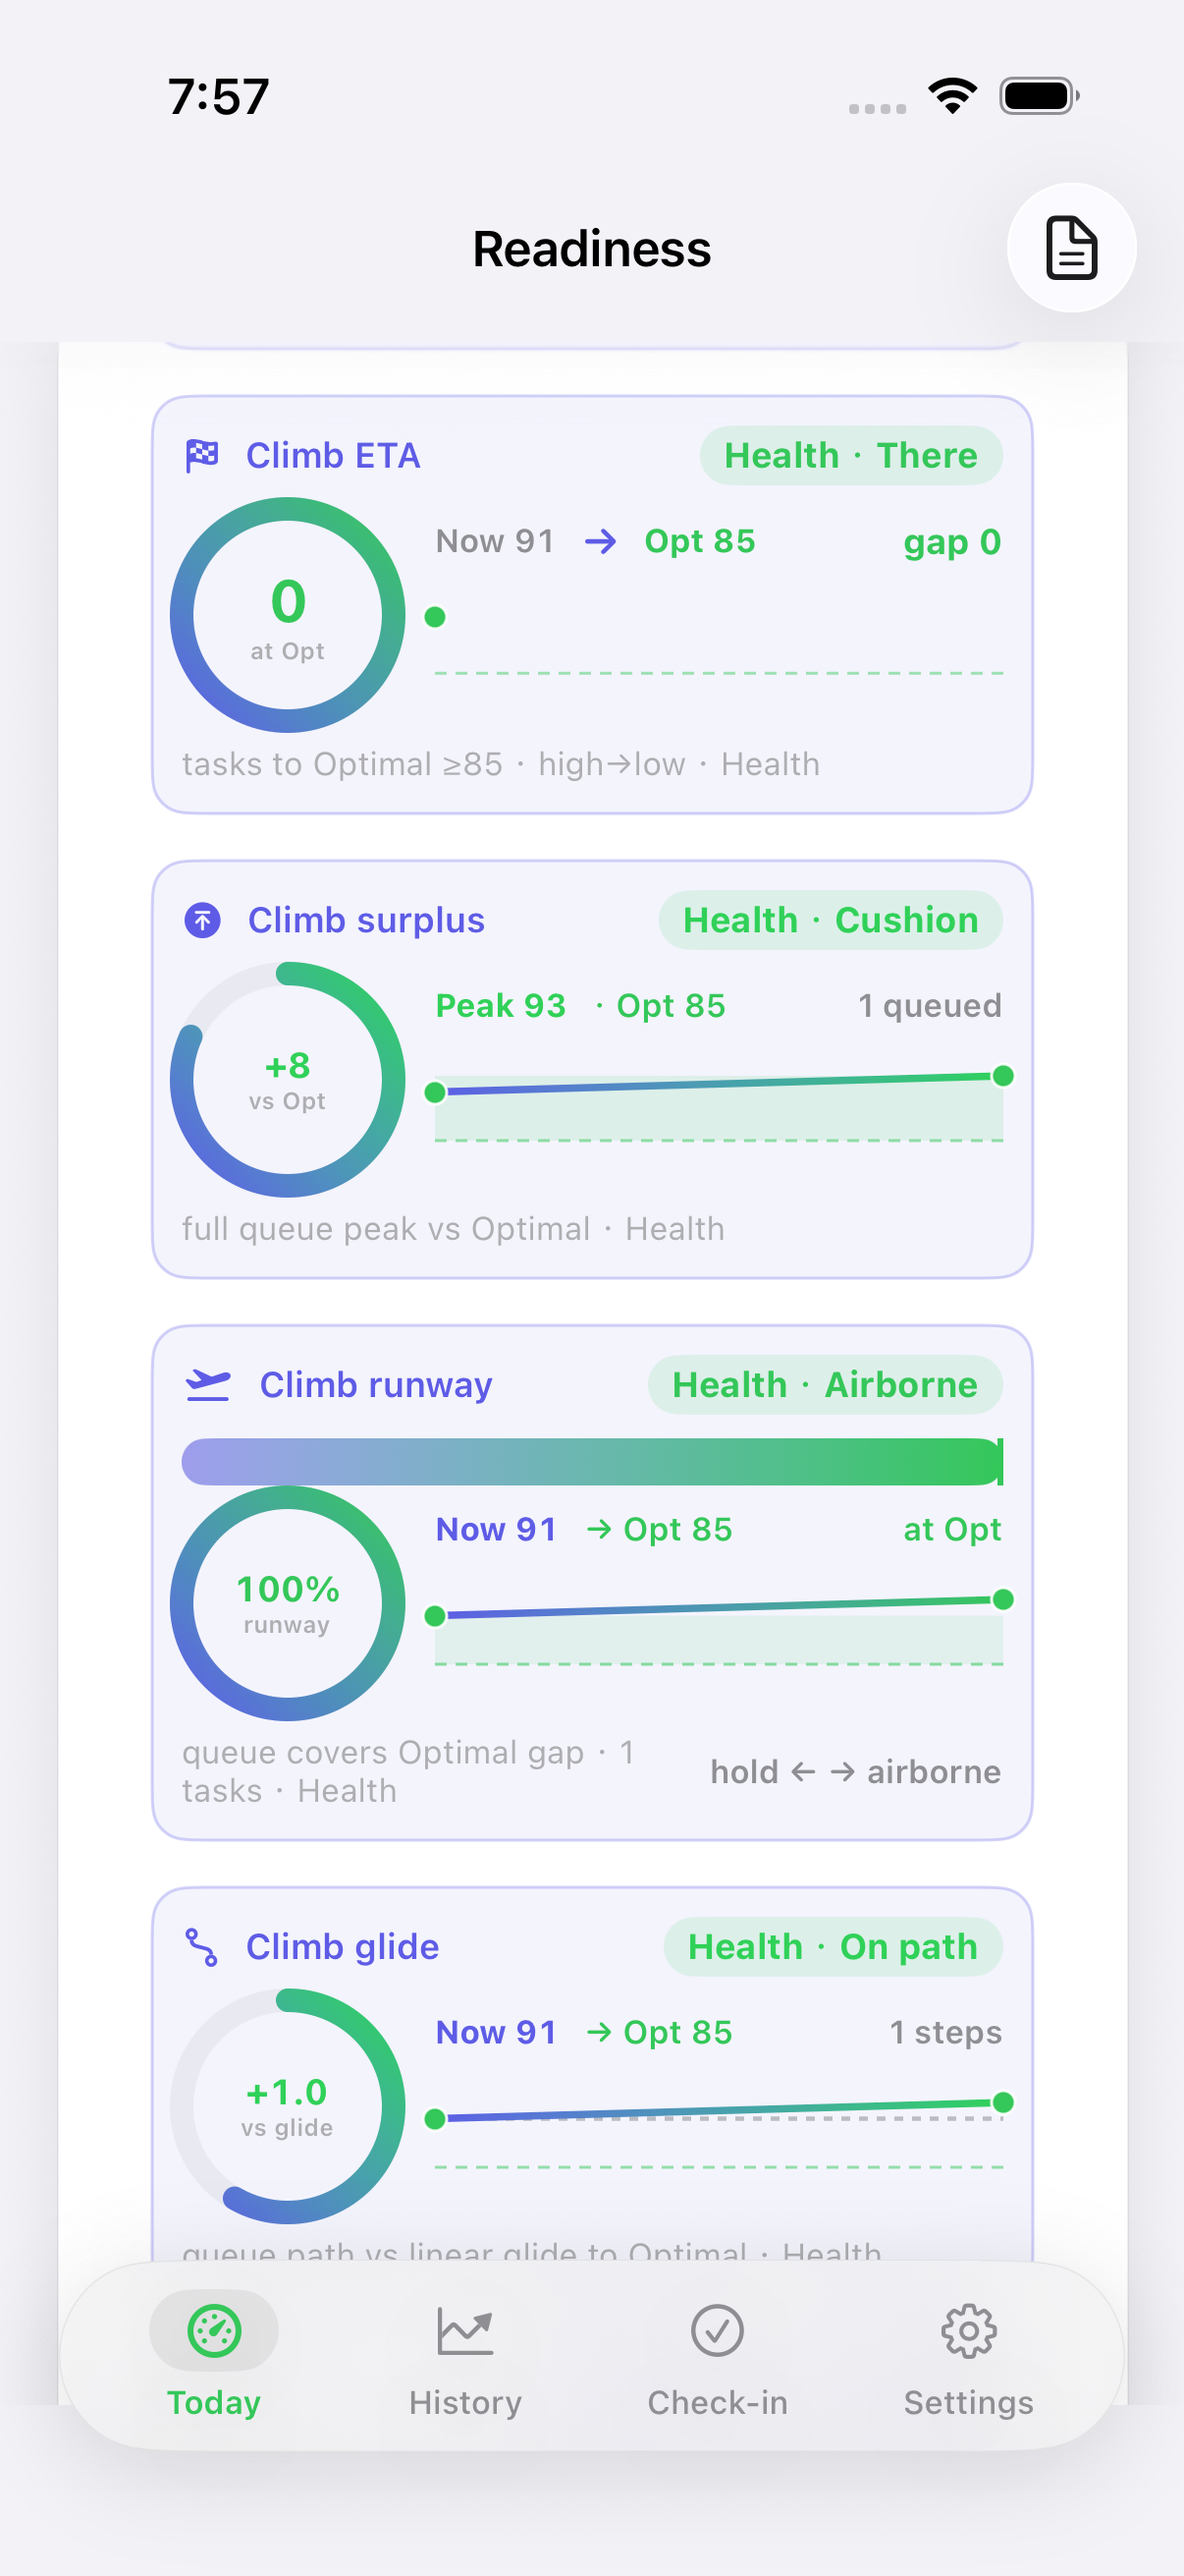
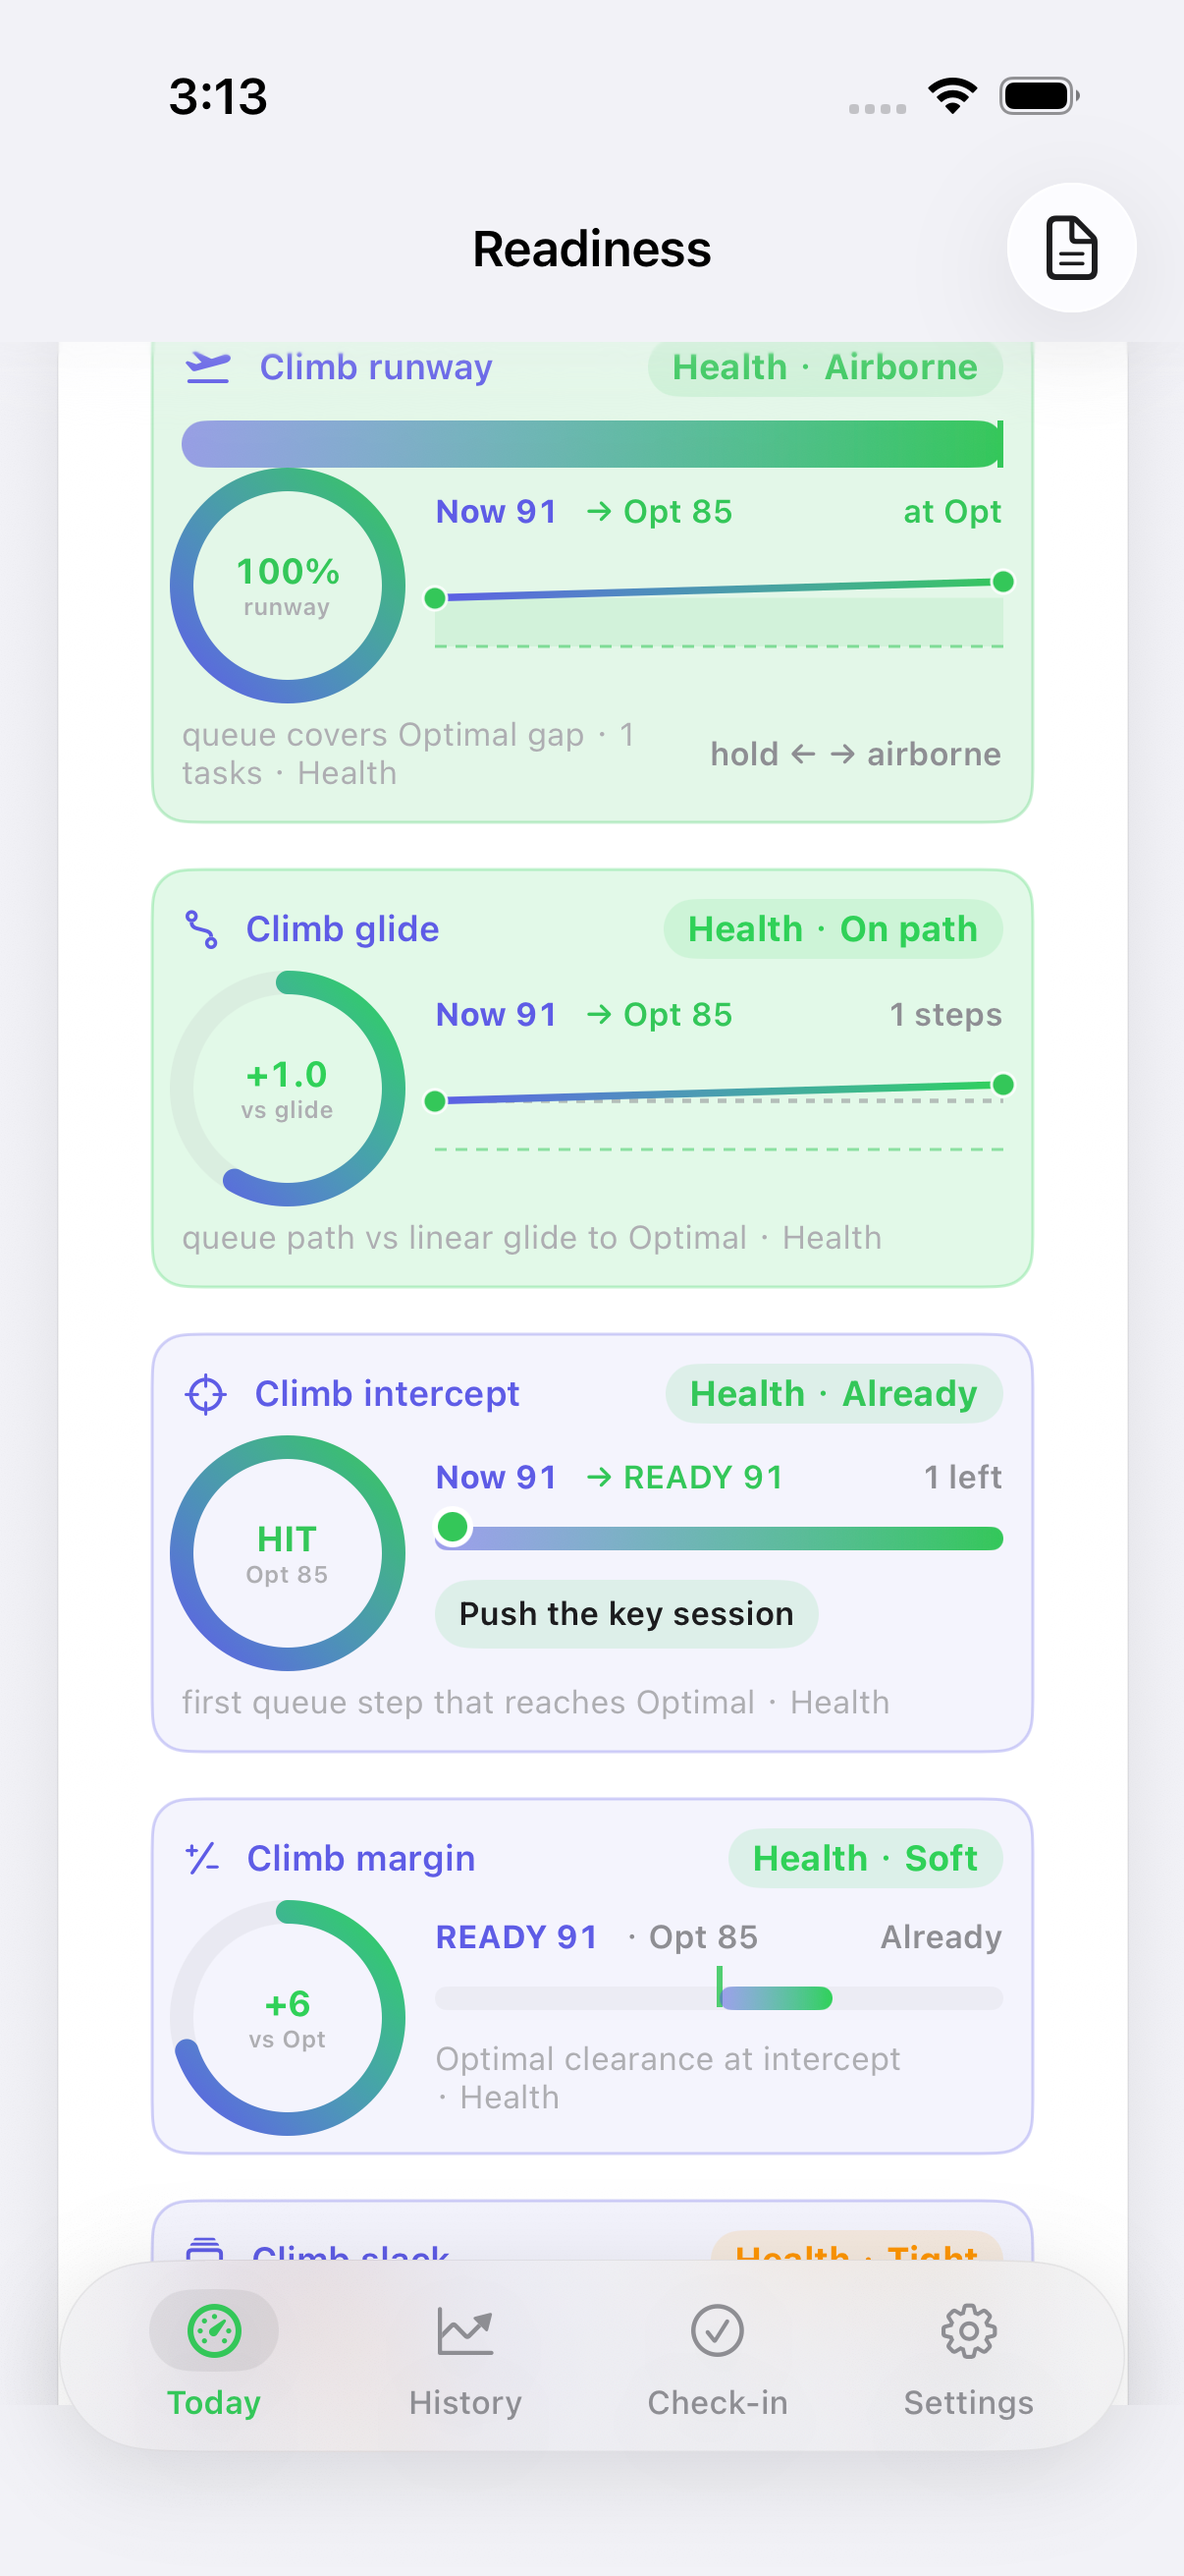
Honest #749: Simulator climb glide (WHOOP wells)
Why: keep Load Simulator climb visuals on WHOOP-well parity so the glide dial matches runway/surplus/ETA/pace siblings instead of the older flat accent chrome.

Restyle the existing Simulator climb glide dial (`sim.load.ready.climb.glide`, Honest #626) with WHOOP wells.

- Idle Below (meanDev < -2): ghost/hairline 8%/28% using secondaryText
- Active Lag (meanDev >= -2): 14% fill + 28% hairline (caution)
- Active On path (meanDev >= 1): 14% fill + 28% hairline (good)
- Active Above (meanDev >= 4): 14% fill + 28% hairline (optimal)
- No new SurfaceID; no formula / verb / threshold / metric change

Proof: `testReadinessLoadSimulatorSurface` 772.424s, 0 failures (observer 786.630s); `.audit/verify-simulator-climb-glide.png`
model=deepseek-flash (mechanical pattern-copy of #748 wells applied locally)

diff --git a/ReadinessTracker/Views/WhoopFeatures/ReadinessLoadSimulatorCard.swift b/ReadinessTracker/Views/WhoopFeatures/ReadinessLoadSimulatorCard.swift
@@ -4428,7 +4428,7 @@ struct ReadinessLoadSimulatorCard: View {
         .animation(.easeInOut(duration: 0.25), value: projectedCoupled)
     }
 
-    /// Honest #626: READY climb glide — actual queue path vs linear glide to Optimal (Fitbit/Health graphics).
+    /// Honest #626 / #749: READY climb glide — actual queue path vs linear glide to Optimal (Fitbit/Health graphics; WHOOP wells).
     @ViewBuilder
     private var readyClimbGlideDial: some View {
         let pending = tasks.filter { !completedTaskIDs.contains($0.id) }.sorted { $0.readyDelta > $1.readyDelta }
@@ -4473,6 +4473,8 @@ struct ReadinessLoadSimulatorCard: View {
         } else {
             verb = "Below"; tone = RTColor.warning
         }
+        let climbGlideIsActive = (verb != "Below")
+        let wellTone: Color = climbGlideIsActive ? tone : RTColor.secondaryText
         let disp = String(format: "%+.1f", meanDev)
         let lo = max(0, min(start, path.max() ?? start, target, glideEnd) - 4)
         let hi = min(100, max(start, path.max() ?? start, target, glideEnd) + 4)
@@ -4580,10 +4582,10 @@ struct ReadinessLoadSimulatorCard: View {
                 .foregroundStyle(RTColor.tertiaryText)
         }
         .padding(10)
-        .background(accent.opacity(0.07), in: RoundedRectangle(cornerRadius: 12, style: .continuous))
+        .background(wellTone.opacity(climbGlideIsActive ? 0.14 : 0.08), in: RoundedRectangle(cornerRadius: 12, style: .continuous))
         .overlay(
             RoundedRectangle(cornerRadius: 12, style: .continuous)
-                .stroke(accent.opacity(0.28), lineWidth: 1)
+                .stroke(wellTone.opacity(0.28), lineWidth: 1)
         )
         .accessibilityIdentifier(SurfaceID.readinessSimulatorClimbGlide)
         .accessibilityLabel("Climb glide \(verb) \(disp)")

diff --git a/ReadinessTracker/Design/Theme.swift b/ReadinessTracker/Design/Theme.swift
@@ -413,7 +413,7 @@ enum SurfaceID {
     static let readinessSimulatorClimbETA = "sim.load.ready.climb.eta"  // Honest #619 / #746
     static let readinessSimulatorClimbSurplus = "sim.load.ready.climb.surplus"  // Honest #621 / #747
     static let readinessSimulatorClimbRunway = "sim.load.ready.climb.runway"  // Honest #623 / #748
-    static let readinessSimulatorClimbGlide = "sim.load.ready.climb.glide"  // Honest #626
+    static let readinessSimulatorClimbGlide = "sim.load.ready.climb.glide"  // Honest #626 / #749
     static let readinessSimulatorClimbIntercept = "sim.load.ready.climb.intercept"  // Honest #639
     static let readinessSimulatorClimbMargin = "sim.load.ready.climb.margin"  // Honest #712
     static let readinessSimulatorClimbSlack = "sim.load.ready.climb.slack"  // Honest #713

diff --git a/ReadinessTrackerUITests/SurfacesUITests.swift b/ReadinessTrackerUITests/SurfacesUITests.swift
@@ -10929,7 +10929,7 @@ final class SurfacesUITests: XCTestCase {
         }
         saveShot("verify-simulator-climb-runway.png")
 
-        // Honest #626: READY climb glide
+        // Honest #626 / #749: READY climb glide (WHOOP wells)
         let climbGlide = app.descendants(matching: .any)["sim.load.ready.climb.glide"].firstMatch
         XCTAssertTrue(climbGlide.waitForExistence(timeout: 5)
                       || app.descendants(matching: .any)["sim.load.ready.climb.runway"].firstMatch.exists

diff --git a/.audit/decision-log-2026-11-04.md b/.audit/decision-log-2026-11-04.md
@@ -330,3 +330,9 @@
 
 | 02:47 HKT | #748 Simulator climb runway | prove | UITest suite green /tmp/RT-DD748 (767.299s, 0 failures; observer 780.535s); model=deepseek-flash |
 | 02:48 HKT | #748 Simulator climb runway | land | proof PNG + receipt; SID sim.load.ready.climb.runway; PR squash next; model=deepseek-flash |
+
+| 02:59 HKT | Honest #749 Simulator climb glide | model=deepseek-flash | restyle existing sim.load.ready.climb.glide after climb runway #748; WHOOP ghost/active wells; mechanical pattern-copy of #748 wells applied locally (no separate model iterate needed) | mid-ship |
+| 02:59 HKT | Honest #749 Simulator climb glide | prove | started UITest /tmp/RT-DD749; model=deepseek-flash | mid-ship |
+
+| 03:18 HKT | #749 Simulator climb glide | prove | UITest suite green /tmp/RT-DD749 (772.424s, 0 failures; observer 786.630s); model=deepseek-flash |
+| 03:19 HKT | #749 Simulator climb glide | land | proof PNG + receipt; SID sim.load.ready.climb.glide; PR squash next; model=deepseek-flash |

diff --git a/.cursor/skills/verify-readiness-tracker/features/readiness-simulator-climb-glide.md b/.cursor/skills/verify-readiness-tracker/features/readiness-simulator-climb-glide.md
@@ -3,6 +3,7 @@
 ## Sub-features
 - Climb glide dial (Above/On path/Lag/Below)
 - SurfaceID `sim.load.ready.climb.glide`
+- WHOOP wells: idle Below (meanDev < -2) = ghost/hairline 8%/28%; active Lag (meanDev >= -2) = 14% fill + 28% hairline (caution); On path (meanDev >= 1) = 14% fill + 28% hairline (good); Above (meanDev >= 4) = 14% fill + 28% hairline (optimal)
 
 ## How to get to it (user POV)
 Today → Load Simulator → past climb runway → Climb glide
@@ -12,3 +13,4 @@ UITest asserts `sim.load.ready.climb.glide` and saves `.audit/verify-simulator-c
 
 ## Gotchas
 Empty when no pending tasks.
+Idle Below uses secondaryText ghost/hairline (8%/28%); Lag/On path/Above keep existing verb tones with 14% fill + 28% hairline. No formula / verb / threshold / metric change.

diff --git a/.audit/features/readiness-simulator-climb-glide.md b/.audit/features/readiness-simulator-climb-glide.md
@@ -1,5 +1,6 @@
-# Honest #626: Simulator climb glide
+# Honest #626 / #749: Simulator climb glide (WHOOP wells)
 
 Queue path vs linear glide to Optimal (Above/On path/Lag/Below).
+Idle (Below / meanDev < -2) = ghost/hairline 8/28; active Lag (meanDev >= -2) = 14 fill + 28 hairline (caution); On path (meanDev >= 1) = 14 fill + 28 hairline (good); Above (meanDev >= 4) = 14 fill + 28 hairline (optimal).
 SurfaceID: `sim.load.ready.climb.glide`
 Proof: `.audit/verify-simulator-climb-glide.png`

diff --git a/.audit/sim-climb-glide.md b/.audit/sim-climb-glide.md
@@ -1,5 +1,6 @@
-# Honest #626: Simulator climb glide
+# Honest #626 / #749: Simulator climb glide (WHOOP wells)
 
 Queue path vs linear glide to Optimal (Above/On path/Lag/Below).
+Idle (Below / meanDev < -2) = ghost/hairline 8/28; active Lag (meanDev >= -2) = 14 fill + 28 hairline (caution); On path (meanDev >= 1) = 14 fill + 28 hairline (good); Above (meanDev >= 4) = 14 fill + 28 hairline (optimal).
 SurfaceID: `sim.load.ready.climb.glide`
 Proof: `.audit/verify-simulator-climb-glide.png`
